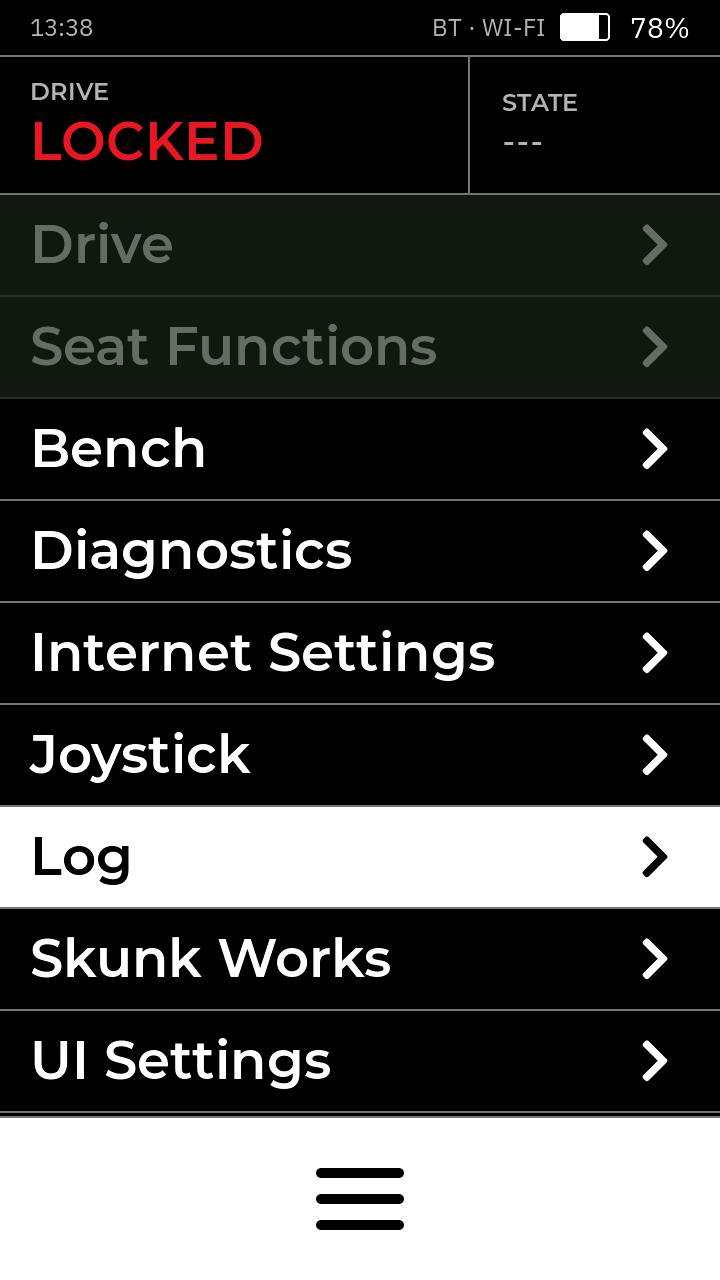
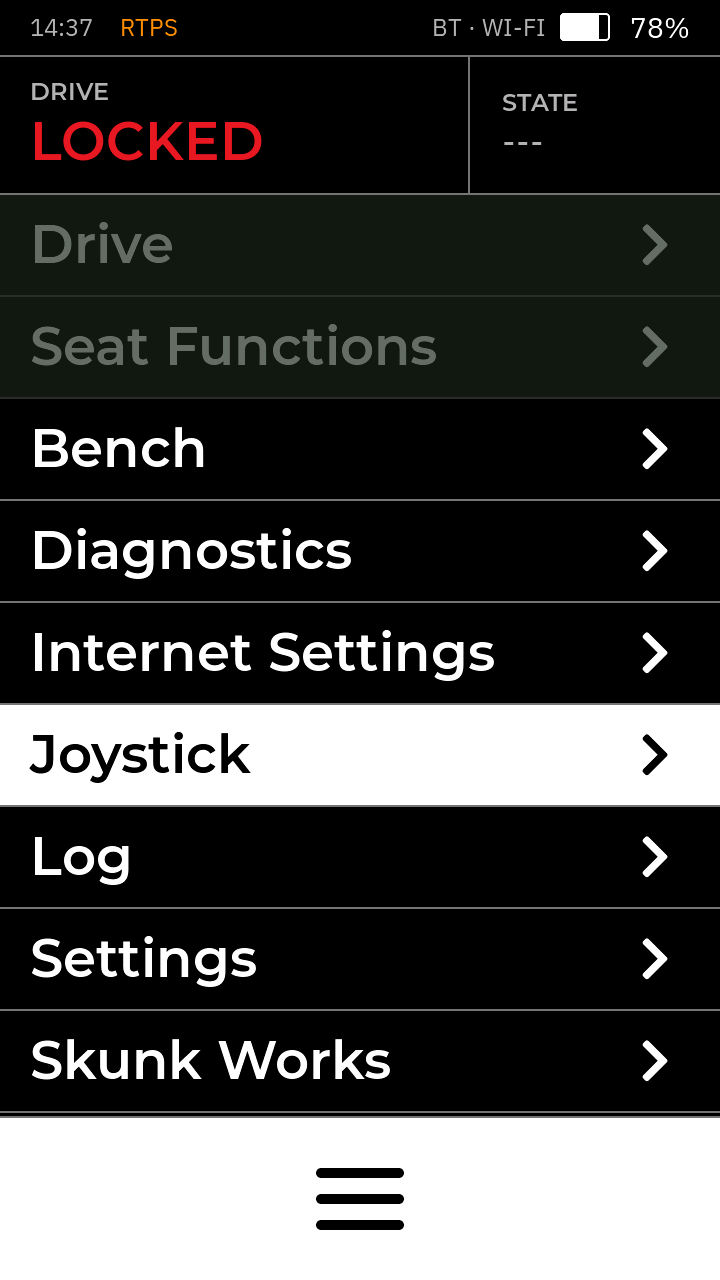
Rename UI Settings to Settings, and add Speed sensitivity
- The menu row and the screen title read "Settings". The menu stays
  alphabetical after Drive and Seat Functions, so Settings now comes before
  Skunk Works.
- Settings "Speed sensitivity", 0.1x to 1.0x (default 1.0x): scales the
  three stick axes on their way to the MCB, as if the stick moved that much
  less. The bars and the UI's stick keys are unaffected. Refused while
  driving, like the stick mapping rows.

Checked on the Tab5 against the MCB sim: 1.0x / 0.5x / 0.1x send
-0.690 / -0.345 / -0.069 on X, and likewise on Y and twist.

diff --git a/main/main.cpp b/main/main.cpp
@@ -209,13 +209,14 @@ static lv_group_t *seat_group = nullptr;        // seat screen, function buttons
 static lv_group_t *seat_adjust_group = nullptr; // seat screen, adjustment page
 static lv_group_t *rd_group = nullptr;          // the bench gate's PIN keypad
 
-// Two of the UI Settings rows; the third is brightness_subject. Up here because
+// The Settings rows; brightness has its own brightness_subject. Up here because
 // rtps_poll_cb keeps the theme row in step and the menu reads the slide. Each
 // observer (app_main) applies and saves its value.
 static lv_subject_t theme_subject;             // 0 = dark (UI_THEME_DEFAULT), 1 = day
 static lv_subject_t menu_slide_subject;        // 0 = the menu appears at once, 1 = it slides
 static lv_subject_t flip_subject;              // 1 = the panel is turned 180 degrees
 static lv_subject_t stick_sensitivity_subject; // 1..10, see stick_key_thresholds
+static lv_subject_t drive_speed_subject;       // 1..10 tenths: the stick's scale to the MCB
 static lv_subject_t stick_invert_x_subject;    // 1 = left and right swap over
 static lv_subject_t stick_invert_y_subject;    // 1 = forward and back swap over
 static lv_subject_t stick_swap_subject;        // 1 = the stick's X and Y trade places
@@ -225,10 +226,11 @@ static lv_subject_t network_subject;           // NetLink: 0 = Ethernet, 1 = WiF
 // What the ADC task needs of those, as plain atomics it can read without the
 // LVGL lock. Written by setting_store_observer.
 static std::atomic<int> stick_sensitivity{SETTINGS_STICK_SENSITIVITY_MAX - 1};
+static std::atomic<int> drive_speed{SETTINGS_DRIVE_SPEED_MAX};
 static std::atomic<bool> stick_invert_x{false};
 static std::atomic<bool> stick_invert_y{false};
 static std::atomic<bool> stick_swap{false};
-// UI Settings "Sounds". Read by play_click from the touch task as well as LVGL's.
+// Settings "Sounds". Read by play_click from the touch task as well as LVGL's.
 static std::atomic<bool> sounds_on{true};
 
 // The burger menu's overlay while it is up, else null. Up here because the
@@ -689,7 +691,7 @@ static void rtps_poll_cb(lv_timer_t *) {
     // Same reason, different property: the theme switch restored the redundant
     // background fills, so take them out again.
     strip_all_overdraw();
-    // The switch itself is the UI Settings Theme row (or a CALL FUNCTION
+    // The switch itself is the Settings Theme row (or a CALL FUNCTION
     // event reaching ui_events.cpp's theme_toggle, or the remote UI); this is
     // where firmware first sees the result, so it is saved from here, and the
     // row is brought into step with a switch it did not make.
@@ -702,7 +704,7 @@ static void rtps_poll_cb(lv_timer_t *) {
 // Backlight
 //
 // One brightness setting, 5..100 %, whoever changes it: the RTPS brightness
-// command, the Tab5's side button, and the Brightness row of UI Settings.
+// command, the Tab5's side button, and the Brightness row of Settings.
 // Saved a second after it stops changing, so a run
 // of steps is one flash write rather than one per step.
 /////////////////////////////////////////////////////////////////////////////
@@ -2214,6 +2216,7 @@ static lv_subject_t *const kSettingParamValue[] = {
     &menu_slide_subject,        // SETTINGS_PARAM_MENU_SLIDE
     &flip_subject,              // SETTINGS_PARAM_FLIP
     &stick_sensitivity_subject, // SETTINGS_PARAM_STICK_SENSITIVITY
+    &drive_speed_subject,       // SETTINGS_PARAM_DRIVE_SPEED
     &stick_invert_x_subject,    // SETTINGS_PARAM_STICK_INVERT_X
     &stick_invert_y_subject,    // SETTINGS_PARAM_STICK_INVERT_Y
     &stick_swap_subject,        // SETTINGS_PARAM_STICK_SWAP
@@ -2226,7 +2229,7 @@ static constexpr const char *kThemeNames[] = {"Dark", "Day"};
 static constexpr const char *kOnOffNames[] = {"Off", "On"};
 static constexpr const char *kMirrorNames[] = {"Normal", "Mirror"};
 static constexpr const char *kSwapNames[] = {"Normal", "Swap"};
-// NetLink order. Not a UI Settings row: Internet Settings draws it as two buttons.
+// NetLink order. Not a Settings row: Internet Settings draws it as two buttons.
 static constexpr const char *kNetworkNames[] = {"Ethernet", "WiFi"};
 static const char *const *const kSettingParamNames[] = {
     nullptr,       // SETTINGS_PARAM_BRIGHTNESS
@@ -2234,6 +2237,7 @@ static const char *const *const kSettingParamNames[] = {
     kOnOffNames,   // SETTINGS_PARAM_MENU_SLIDE
     kOnOffNames,   // SETTINGS_PARAM_FLIP
     nullptr,       // SETTINGS_PARAM_STICK_SENSITIVITY
+    nullptr,       // SETTINGS_PARAM_DRIVE_SPEED
     kMirrorNames,  // SETTINGS_PARAM_STICK_INVERT_X
     kMirrorNames,  // SETTINGS_PARAM_STICK_INVERT_Y
     kSwapNames,    // SETTINGS_PARAM_STICK_SWAP
@@ -2312,7 +2316,7 @@ static void stepper_format(const StepperSpec &spec, int32_t raw, char *out, size
 
 static void set_display_flipped(bool on); // screen flip, beside direct_flush_cb
 
-// Applies and saves one of the UI Settings rows that has no observer of its
+// Applies and saves one of the Settings rows that has no observer of its
 // own (brightness and theme do). user_data is its SETTINGS_PARAM_*.
 static void setting_store_observer(lv_observer_t *observer, lv_subject_t *subject) {
   const int param =
@@ -2325,6 +2329,9 @@ static void setting_store_observer(lv_observer_t *observer, lv_subject_t *subjec
     break;
   case SETTINGS_PARAM_STICK_SENSITIVITY:
     stick_sensitivity.store(value);
+    break;
+  case SETTINGS_PARAM_DRIVE_SPEED:
+    drive_speed.store(value);
     break;
   case SETTINGS_PARAM_STICK_INVERT_X:
     stick_invert_x.store(value != 0);
@@ -2741,10 +2748,11 @@ static void setting_page_open(int32_t page) {
       if (kSettingParams[i].page == page) {
         StepperSpec spec = kSettingParams[i].spec;
         spec.names = kSettingParamNames[i];
-        // Remapping the stick changes which way a push drives the chair, so it
-        // is not done mid-drive.
+        // Remapping the stick changes which way a push drives the chair, and
+        // the speed how far, so neither is done mid-drive.
         spec.locked_only = i == SETTINGS_PARAM_STICK_INVERT_X ||
-                           i == SETTINGS_PARAM_STICK_INVERT_Y || i == SETTINGS_PARAM_STICK_SWAP;
+                           i == SETTINGS_PARAM_STICK_INVERT_Y || i == SETTINGS_PARAM_STICK_SWAP ||
+                           i == SETTINGS_PARAM_DRIVE_SPEED;
         setting_row_add(spec, kSettingParamValue[i], false);
       }
     }
@@ -3217,8 +3225,8 @@ enum NavDest {
   NAV_INTERNET, // "Internet Settings": Ethernet or WiFi, and which network
   NAV_JOYSTICK, // "Joystick", the test screen with CALIBRATE on it
   NAV_LOG,      // "Log"
+  NAV_SETTINGS, // "Settings"
   NAV_SKUNK,    // "Skunk Works"
-  NAV_SETTINGS, // "UI Settings"
   NAV_DEST_COUNT,
 };
 
@@ -3387,7 +3395,7 @@ static void nav_menu_hide_cb(lv_anim_t *a) {
 
 static void nav_menu_slide(lv_obj_t *overlay, int32_t from, int32_t to, bool hide_after) {
   lv_anim_delete(overlay, nav_menu_anim_cb);
-  // Instant unless UI Settings turns the slide on: straight to where the
+  // Instant unless Settings turns the slide on: straight to where the
   // slide would have ended, hidden if that is where it was going.
   if (lv_subject_get_int(&menu_slide_subject) == 0) {
     lv_obj_set_y(overlay, to);
@@ -3542,7 +3550,7 @@ static void nav_go(NavDest dest) {
   case NAV_DEST_COUNT:
     break;
   }
-  // A row picked on its own screen (UI Settings from UI Settings): LVGL skips
+  // A row picked on its own screen (Settings from Settings): LVGL skips
   // a load of the screen already up, so SCREEN_LOADED never comes, and the
   // stick would be left on the menu's group -- emptied above -- with nothing
   // to focus until another screen loaded. Arrive by hand instead.
@@ -4107,7 +4115,7 @@ static void direct_flush_cb(lv_display_t *disp, const lv_area_t * /*area*/, uint
 }
 
 /////////////////////////////////////////////////////////////////////////////
-// Screen flip (UI Settings "Flip screen")
+// Screen flip (Settings "Flip screen")
 //
 // Turns the picture 180 degrees for a unit mounted upside down. LVGL keeps
 // drawing upright; the P4's pixel-processing accelerator (PPA) turns the
@@ -5012,13 +5020,14 @@ extern "C" void app_main(void) {
         }
       },
       nullptr);
-  // The rest of UI Settings: each row's subject starts at its saved value, and
+  // The rest of Settings: each row's subject starts at its saved value, and
   // setting_store_observer applies it (on this first run too, which is what
   // puts a saved flip or stick mapping back at boot) and saves any change.
   for (const auto &[subject, param] : std::initializer_list<std::pair<lv_subject_t *, int>>{
            {&menu_slide_subject, SETTINGS_PARAM_MENU_SLIDE},
            {&flip_subject, SETTINGS_PARAM_FLIP},
            {&stick_sensitivity_subject, SETTINGS_PARAM_STICK_SENSITIVITY},
+           {&drive_speed_subject, SETTINGS_PARAM_DRIVE_SPEED},
            {&stick_invert_x_subject, SETTINGS_PARAM_STICK_INVERT_X},
            {&stick_invert_y_subject, SETTINGS_PARAM_STICK_INVERT_Y},
            {&stick_swap_subject, SETTINGS_PARAM_STICK_SWAP},
@@ -5104,7 +5113,7 @@ extern "C" void app_main(void) {
     bind_clock_label(c.bar);
     nav_attach_chrome(c.key, c.overlay, c.band_goes_home ? c.band : nullptr);
   }
-  // The menu stays reachable while locked: Log, Diagnostics, UI Settings and
+  // The menu stays reachable while locked: Log, Diagnostics, Settings and
   // the bench tools are all useful with the chair not driving -- and without an
   // MCB at all. Locked still means nothing moves: the band reads LOCKED on every
   // screen and the stick only drives from Drive (stick_drives).
@@ -5602,7 +5611,7 @@ extern "C" void app_main(void) {
   // Initialised before the screen's warning panel ever binds to it.
   lv_subject_init_int(&setting_page_subject, SETTINGS_PAGE_UI);
 
-  // SCREEN BRIGHTNESS no longer needs a button of its own: "UI Settings" in
+  // SCREEN BRIGHTNESS no longer needs a button of its own: "Settings" in
   // the burger menu opens page 0, which is that page (setting_page_open(0) in
   // nav_go). Add a second page to settings_spec.h and the screen grows a
   // chooser; until then the menu row IS the chooser.
@@ -5953,7 +5962,7 @@ extern "C" void app_main(void) {
       // horizontal channel, Y the vertical one (inverted, see "Joystick
       // mapping").
       stick.update(*horiz_mv, *vert_mv, twist_smoothed);
-      // The stick as mounted: UI Settings can swap its axes and mirror either
+      // The stick as mounted: Settings can swap its axes and mirror either
       // one. Applied here, once, so the bars, the UI keys and the MCB all get
       // the same stick. Swap first, then mirror, so "mirror left/right" always
       // means the direction the user pushes, whatever the swap did.
@@ -5976,7 +5985,7 @@ extern "C" void app_main(void) {
       // without needing to pass through center. The larger component wins, so a
       // diagonal resolves to one direction rather than two.
       //
-      // How far the stick must go to count as a key is the UI Settings stick
+      // How far the stick must go to count as a key is the Settings stick
       // sensitivity, 1..10. stick.x()/y() are rescaled past the circular dead
       // zone -- 0 at its edge, 1 at the gate -- so the thresholds are fractions
       // of the travel OUTSIDE it: level 1 engages at 0.30 (about 36% of the
@@ -6043,10 +6052,18 @@ extern "C" void app_main(void) {
       // the next row from moving the chair. The bars keep moving, to show the
       // stick is being read. Quiet no-op until RTPS is up and a subscriber is
       // discovered.
-      const bool neutral = calibrating || !stick_drives.load();
-      adc_published = rtps_comms_publish_adc(
-          neutral ? 0.0f : stick_x, neutral ? 0.0f : stick_y, neutral ? 0.0f : stick.z(),
-          joy_button_pressed.load() ? rammp::Buttons::JOYSTICK : rammp::Buttons::NONE);
+      //
+      // Settings "Speed sensitivity" scales all three axes on the way, as if the
+      // stick moved that much less: 1.0x sends it as it is, 0.1x a tenth of it.
+      // Only here -- the bars and the UI keys keep the stick as it is.
+      const float speed =
+          static_cast<float>(std::clamp<int>(drive_speed.load(), SETTINGS_DRIVE_SPEED_MIN,
+                                             SETTINGS_DRIVE_SPEED_MAX)) /
+          static_cast<float>(SETTINGS_DRIVE_SPEED_MAX);
+      const float scale = calibrating || !stick_drives.load() ? 0.0f : speed;
+      adc_published = rtps_comms_publish_adc(stick_x * scale, stick_y * scale, stick.z() * scale,
+                                             joy_button_pressed.load() ? rammp::Buttons::JOYSTICK
+                                                                       : rammp::Buttons::NONE);
     }
     // Every cycle, valid or not: the self test measures the loop's cadence and
     // how often a read fails, as well as the values. A no-op unless a run is
@@ -6170,7 +6187,7 @@ static void click_now(espp::M5StackTab5 &tab5) {
 }
 
 // The click: a touch landing, the stick button selecting, a hold completing.
-// Silent with UI Settings "Sounds" off.
+// Silent with Settings "Sounds" off.
 static void play_click(espp::M5StackTab5 &tab5) {
   if (sounds_on.load()) {
     click_now(tab5);

diff --git a/main/settings_spec.h b/main/settings_spec.h
@@ -1,5 +1,5 @@
 /*
- * settings_spec.h - settings shown on the SettingsScreen (UI Settings).
+ * settings_spec.h - settings shown on the SettingsScreen (Settings in the menu).
  *
  * - A page is a title, a line of instructions, and every parameter that names
  *   it, in table order. More rows on a page = more X lines.
@@ -12,7 +12,7 @@
 
 /* P(NAME, title, instructions) */
 #define SETTINGS_PAGE_TABLE(P)                                                                     \
-  P(UI, "UI Settings", "Left/right or -/+ to change. Saved automatically.")                        \
+  P(UI, "Settings", "Left/right or -/+ to change. Saved automatically.")                           \
   P(NET, "Internet Settings", "Shown on the InternetScreen, not as rows.")
 
 /* X(PAGE, NAME, short, label, min, max, step, decimals, unit, default)
@@ -20,6 +20,8 @@
    0..n-1 here; main.cpp's kSettingParamNames says what each value reads.
    Every row is saved in settings.txt under its NAME, lowercase (settings.cpp),
    and starts at `default` until it has been.
+   DRIVE_SPEED scales the stick on its way to the MCB, in tenths: 10 = the stick as it
+   is, 1 = as if it moved a tenth as far. The UI keys and the bars do not see it.
    NETWORK is what RTPS runs over, 0 = Ethernet (the W5500), 1 = WiFi (the ESP32-C6;
    Ethernet anyway while no WiFi network is known). It is on a page of its own because the
    InternetScreen draws it as two choice buttons (internet_ui.cpp), not as a -/+ row. Read
@@ -30,10 +32,11 @@
   X(UI, MENU_SLIDE, "S3", "Menu slide", 0, 1, 1, 0, "", 0)                                         \
   X(UI, FLIP, "S4", "Flip screen", 0, 1, 1, 0, "", 0)                                              \
   X(UI, STICK_SENSITIVITY, "S5", "Stick sensitivity", 1, 10, 1, 0, "", 9)                          \
-  X(UI, STICK_INVERT_X, "S6", "Stick left/right", 0, 1, 1, 0, "", 0)                               \
-  X(UI, STICK_INVERT_Y, "S7", "Stick fwd/back", 0, 1, 1, 0, "", 0)                                 \
-  X(UI, STICK_SWAP, "S8", "Stick axes", 0, 1, 1, 0, "", 0)                                         \
-  X(UI, SOUNDS, "S9", "Sounds", 0, 1, 1, 0, "", 1)                                                 \
+  X(UI, DRIVE_SPEED, "S6", "Speed sensitivity", 1, 10, 1, 1, "x", 10)                              \
+  X(UI, STICK_INVERT_X, "S7", "Stick left/right", 0, 1, 1, 0, "", 0)                               \
+  X(UI, STICK_INVERT_Y, "S8", "Stick fwd/back", 0, 1, 1, 0, "", 0)                                 \
+  X(UI, STICK_SWAP, "S9", "Stick axes", 0, 1, 1, 0, "", 0)                                         \
+  X(UI, SOUNDS, "S10", "Sounds", 0, 1, 1, 0, "", 1)                                                \
   X(NET, NETWORK, "N1", "Connection", 0, 1, 1, 0, "", 1)
 
 /* SETTINGS_PAGE_SCREEN_BRIGHTNESS, ..., SETTINGS_PAGE_COUNT */

diff --git a/components/ui/components/ui_comp_menuoverlay.c b/components/ui/components/ui_comp_menuoverlay.c
@@ -929,7 +929,7 @@ lv_obj_t * ui_MenuOverlay_create(lv_obj_t * comp_parent)
     lv_obj_set_height(cui_RowLabel8, LV_SIZE_CONTENT);    /// 1
     lv_obj_set_x(cui_RowLabel8, 30);
     lv_obj_set_y(cui_RowLabel8, 22);
-    lv_label_set_text(cui_RowLabel8, "Skunk Works");
+    lv_label_set_text(cui_RowLabel8, "Settings");
     ui_object_set_themeable_style_property(cui_RowLabel8, LV_PART_MAIN | LV_STATE_DEFAULT, LV_STYLE_TEXT_COLOR,
                                            _ui_theme_color_text);
     ui_object_set_themeable_style_property(cui_RowLabel8, LV_PART_MAIN | LV_STATE_DEFAULT, LV_STYLE_TEXT_OPA,
@@ -1048,7 +1048,7 @@ lv_obj_t * ui_MenuOverlay_create(lv_obj_t * comp_parent)
     lv_obj_set_height(cui_RowLabel9, LV_SIZE_CONTENT);    /// 1
     lv_obj_set_x(cui_RowLabel9, 30);
     lv_obj_set_y(cui_RowLabel9, 22);
-    lv_label_set_text(cui_RowLabel9, "UI Settings");
+    lv_label_set_text(cui_RowLabel9, "Skunk Works");
     ui_object_set_themeable_style_property(cui_RowLabel9, LV_PART_MAIN | LV_STATE_DEFAULT, LV_STYLE_TEXT_COLOR,
                                            _ui_theme_color_text);
     ui_object_set_themeable_style_property(cui_RowLabel9, LV_PART_MAIN | LV_STATE_DEFAULT, LV_STYLE_TEXT_OPA,

diff --git a/main/hmi_rtps_spec.hpp b/main/hmi_rtps_spec.hpp
@@ -219,7 +219,7 @@ static_assert(sizeof(kHmiDriveNotGrantedFooter) <= kErrorFooterLen &&
               "refusal footer outgrows the banner it shares with MIB faults");
 
 /* body / footer per link state short of connected; the first two per link (Network in
-   UI Settings: the W5500's Ethernet, or WiFi through the Tab5's ESP32-C6) */
+   Internet Settings: the W5500's Ethernet, or WiFi through the Tab5's ESP32-C6) */
 inline constexpr char kHmiEthFailedText[] = "W5500 ETHERNET INIT FAILED AT BOOT";
 inline constexpr char kHmiEthFailedFooter[] = "Power-cycle HMI to retry";
 inline constexpr char kHmiLinkDownText[] = "NO ETHERNET LINK";

diff --git a/components/ui/screens/ui_SettingsScreen.c b/components/ui/screens/ui_SettingsScreen.c
@@ -62,7 +62,7 @@ void ui_SettingsScreen_screen_init(void)
     lv_obj_set_height(ui_SettingsTitle, 47);
     lv_obj_set_x(ui_SettingsTitle, 0);
     lv_obj_set_y(ui_SettingsTitle, -7);
-    lv_label_set_text(ui_SettingsTitle, "UI Settings");
+    lv_label_set_text(ui_SettingsTitle, "Settings");
     ui_object_set_themeable_style_property(ui_SettingsTitle, LV_PART_MAIN | LV_STATE_DEFAULT, LV_STYLE_TEXT_COLOR,
                                            _ui_theme_color_text);
     ui_object_set_themeable_style_property(ui_SettingsTitle, LV_PART_MAIN | LV_STATE_DEFAULT, LV_STYLE_TEXT_OPA,

diff --git a/main/rtps_comms.hpp b/main/rtps_comms.hpp
@@ -12,7 +12,7 @@
 
 #include "hmi_rtps_spec.hpp"
 
-/// What RTPS runs over: UI Settings -> Network, picked at boot (a change restarts the HMI).
+/// What RTPS runs over: Internet Settings, picked at boot (a change takes a restart).
 enum class NetLink : uint8_t {
   ETHERNET, ///< the W5500 on the M5-Bus header
   WIFI,     ///< the ESP32-C6 over SDIO, joined to rtps_comms_wifi_ssid()

diff --git a/scripts/ui_contract.py b/scripts/ui_contract.py
@@ -189,8 +189,8 @@ LABELS: dict[str, str] = {
     "cui_RowLabel5": "Internet Settings",
     "cui_RowLabel6": "Joystick",
     "cui_RowLabel7": "Log",
-    "cui_RowLabel8": "Skunk Works",
-    "cui_RowLabel9": "UI Settings",
+    "cui_RowLabel8": "Settings",
+    "cui_RowLabel9": "Skunk Works",
 }
 
 _CREATE_RE = re.compile(

diff --git a/scripts/hmi_ui.py b/scripts/hmi_ui.py
@@ -54,8 +54,8 @@ MENU_ROWS = [
     "Internet Settings",
     "Joystick",
     "Log",
+    "Settings",
     "Skunk Works",
-    "UI Settings",
 ]
 
 

diff --git a/README.md b/README.md
@@ -32,7 +32,7 @@ The UI follows RAMMP UI spec V2. Every screen has the same frame: the status bar
 | <img src="docs/screenshots/SeatScreen.png" width="200"> | <img src="docs/screenshots/SeatAxisScreen.png" width="200"> | <img src="docs/screenshots/SkunkWorksScreen.png" width="200"> |
 | Seat Functions | One motion: jog, presets, "<" back | Skunk Works: one-press actions |
 | <img src="docs/screenshots/SettingsScreen.png" width="200"> | <img src="docs/screenshots/DiagnosticsScreen.png" width="200"> | <img src="docs/screenshots/LogScreen.png" width="200"> |
-| UI Settings | Live MCB diagnostics | System log |
+| Settings | Live MCB diagnostics | System log |
 | <img src="docs/screenshots/BenchGateScreen.png" width="200"> | <img src="docs/screenshots/BenchMotorsScreen.png" width="200"> | <img src="docs/screenshots/JoystickScreen.png" width="200"> |
 | Bench: the PIN | DEBUG ACTUATORS | Joystick test and CALIBRATE |
 | <img src="docs/screenshots/InternetScreen.png" width="200"> | <img src="docs/screenshots/InternetPassword.png" width="200"> | |
@@ -49,12 +49,12 @@ The UI follows RAMMP UI spec V2. Every screen has the same frame: the status bar
 | Internet Settings | Ethernet or WiFi, the WiFi network, and the link's status: see [Network](#network) |
 | Joystick | the stick test; press and hold CALIBRATE (or the stick button) to calibrate |
 | Log | the last 500 serial log lines |
+| Settings | the settings below |
 | Skunk Works | one-press actions from `main/actions_spec.h`: haptic test, self test, seat up, FPS counter, restart |
-| UI Settings | the settings below |
 
 **DRIVE** in the band goes home from anywhere.
 
-### UI Settings
+### Settings
 
 | row | what it does |
 | --- | --- |
@@ -62,7 +62,8 @@ The UI follows RAMMP UI spec V2. Every screen has the same frame: the status bar
 | Theme | Dark or Day |
 | Menu slide | animate the menu opening (off = instant) |
 | Flip screen | turn the picture and touch 180 degrees, for a unit mounted upside down |
-| Stick sensitivity | 1-10: how far the stick moves before the highlight does |
+| Stick sensitivity | 1-10: how far the stick moves before the highlight does (the UI only) |
+| Speed sensitivity | 0.1x-1.0x: scales what the stick sends the MCB, as if it moved that much less; 1.0x = unchanged. Refused while driving |
 | Stick left/right, Stick fwd/back | mirror an axis |
 | Stick axes | swap X and Y |
 | Sounds | touch and joystick clicks; warnings sound either way |

diff --git a/docs/ui-architecture.md b/docs/ui-architecture.md
@@ -66,7 +66,7 @@ ErrorBanner, MenuKey and MenuOverlay, are the *chrome*.
 | JoystickScreen | - | menu: Joystick (the stick test and CALIBRATE) |
 | LogScreen | - | menu: Log |
 | SkunkWorksScreen | - | menu: Skunk Works |
-| SettingsScreen | - | menu: UI Settings; after the PIN, DEBUG ACTUATORS |
+| SettingsScreen | - | menu: Settings; after the PIN, DEBUG ACTUATORS |
 
 SettingsScreen, SkunkWorksScreen and DiagnosticsScreen are built when first opened and
 destroyed on the way out ("Screens built on demand" in `main.cpp`): their rows are
@@ -164,7 +164,7 @@ with the screen's burger key appended last, so "down past the bottom" reaches th
 | `menu_group` | the open menu: nine rows, then the key (wraps) |
 | `seat_group`, `seat_adjust_group` | Seat: the function buttons; the adjustment page |
 | `rd_group` | BenchGate: the PIN pad |
-| `setting_group`, `actions_group`, `diag_group` | UI Settings, Skunk Works, Diagnostics |
+| `setting_group`, `actions_group`, `diag_group` | Settings, Skunk Works, Diagnostics |
 | `log_view_group()` (`main/log_view.cpp`) | Log |
 | `main_group`, `networks_group`, `password_group` (`main/internet_ui.cpp`) | Internet Settings: the main page, the network list, the keyboard |
 | `joystick_group` | everything else: Locked, Drive, Joystick |
@@ -232,7 +232,7 @@ flowchart LR
 
 ## 6. Settings, sounds and the rest
 
-- **UI Settings** rows come from `main/settings_spec.h`, one line each; the firmware builds
+- **Settings** rows come from `main/settings_spec.h`, one line each; the firmware builds
   a `SettingRow` per line and saves every value to `/storage/settings.txt`. Adding a
   setting is a table line, its names in `kSettingParamNames`, its subject in
   `kSettingParamValue`, and a `case` in `setting_store_observer` if it needs applying.
